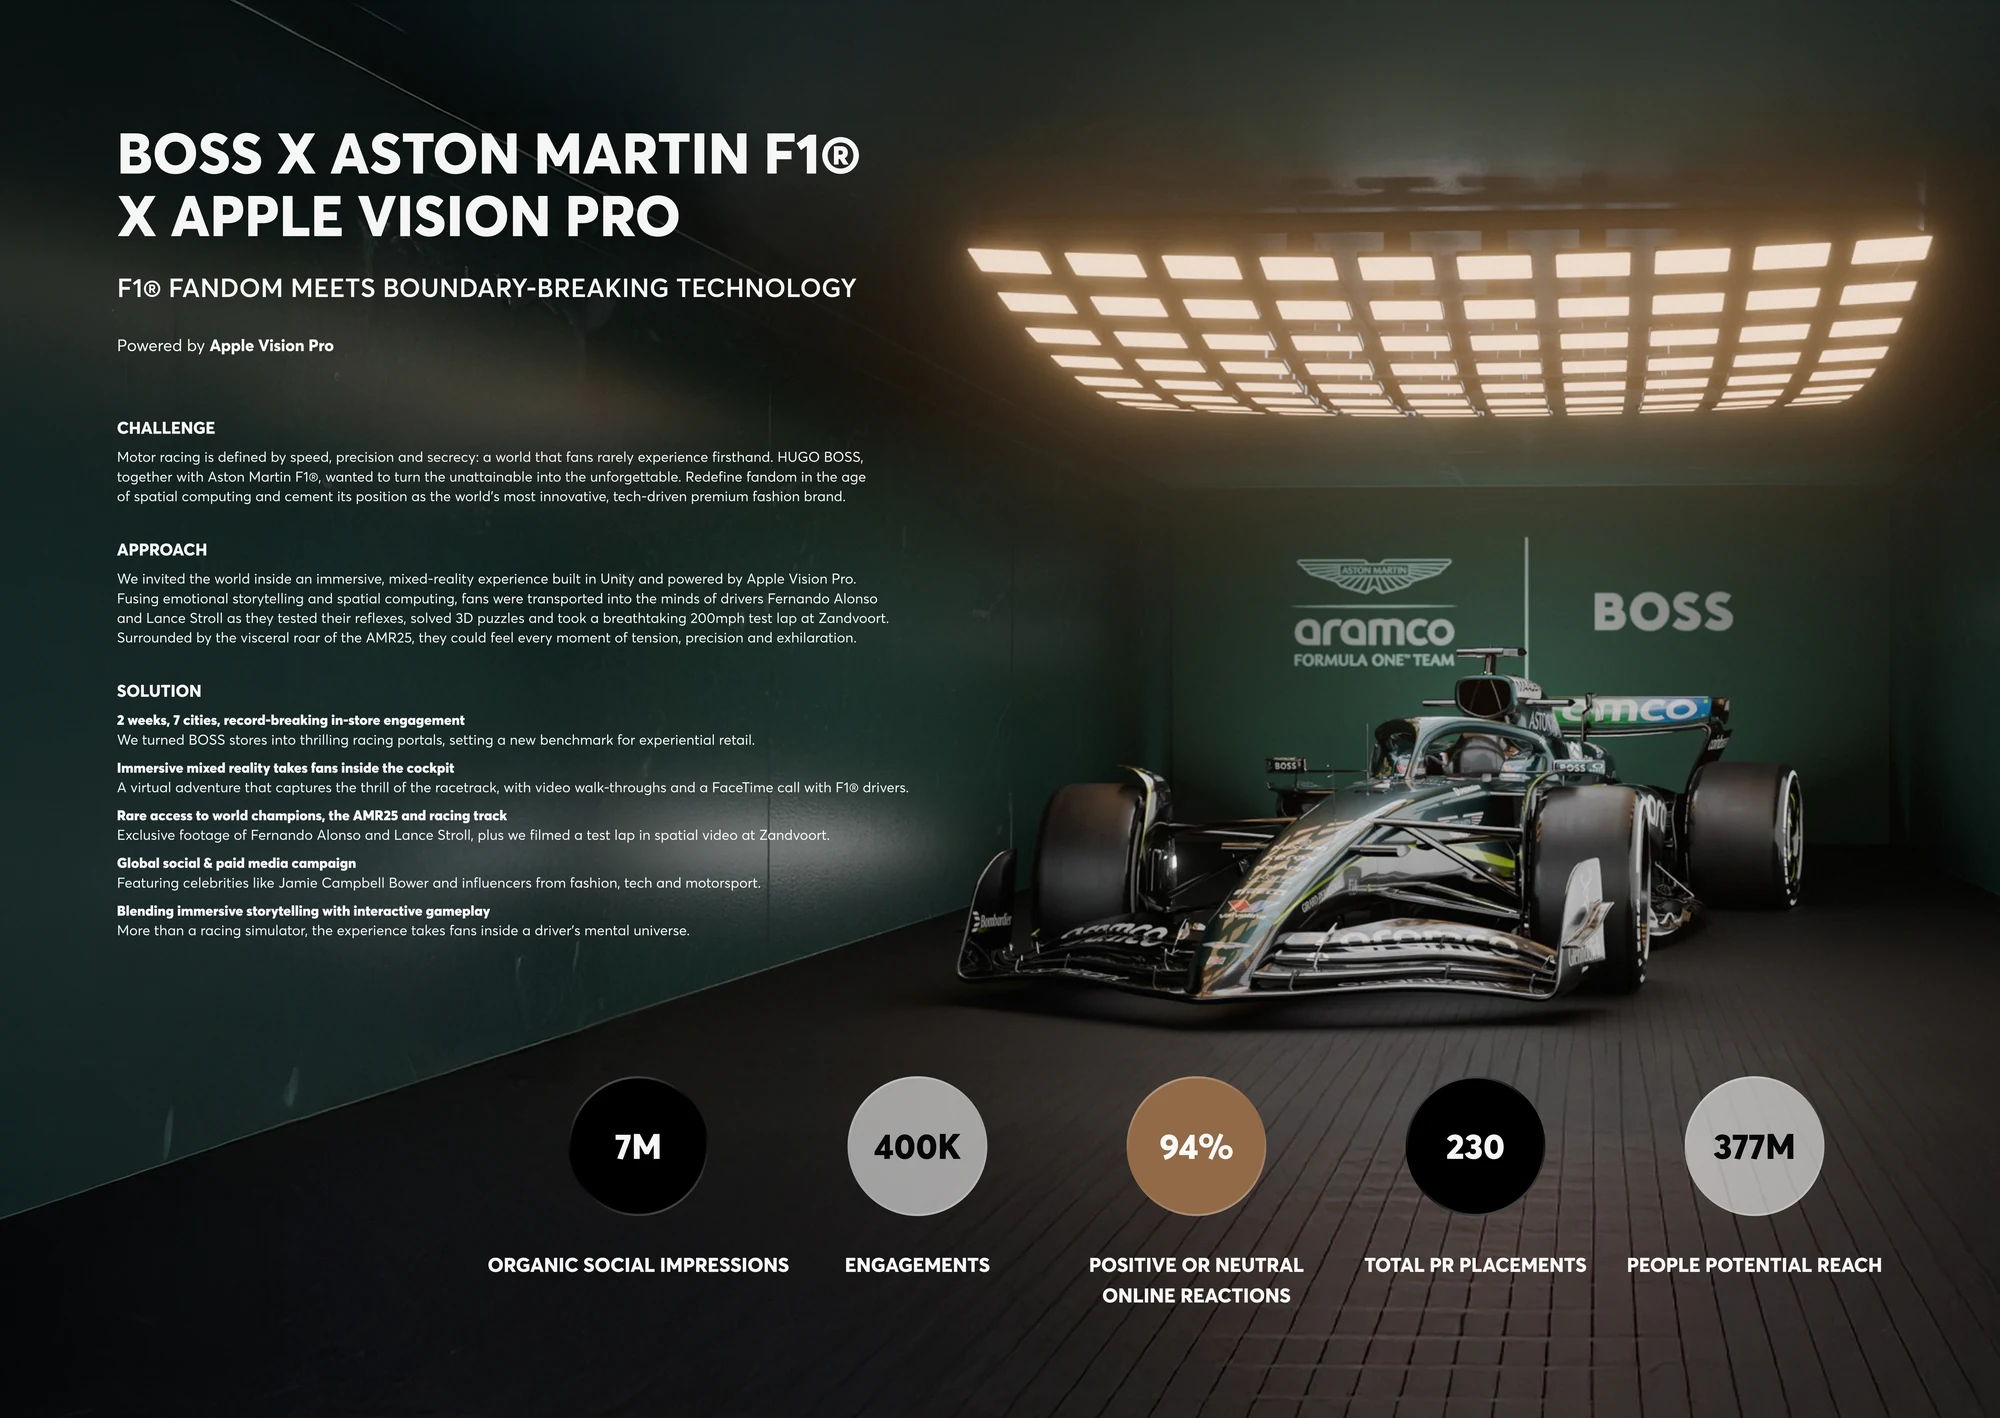
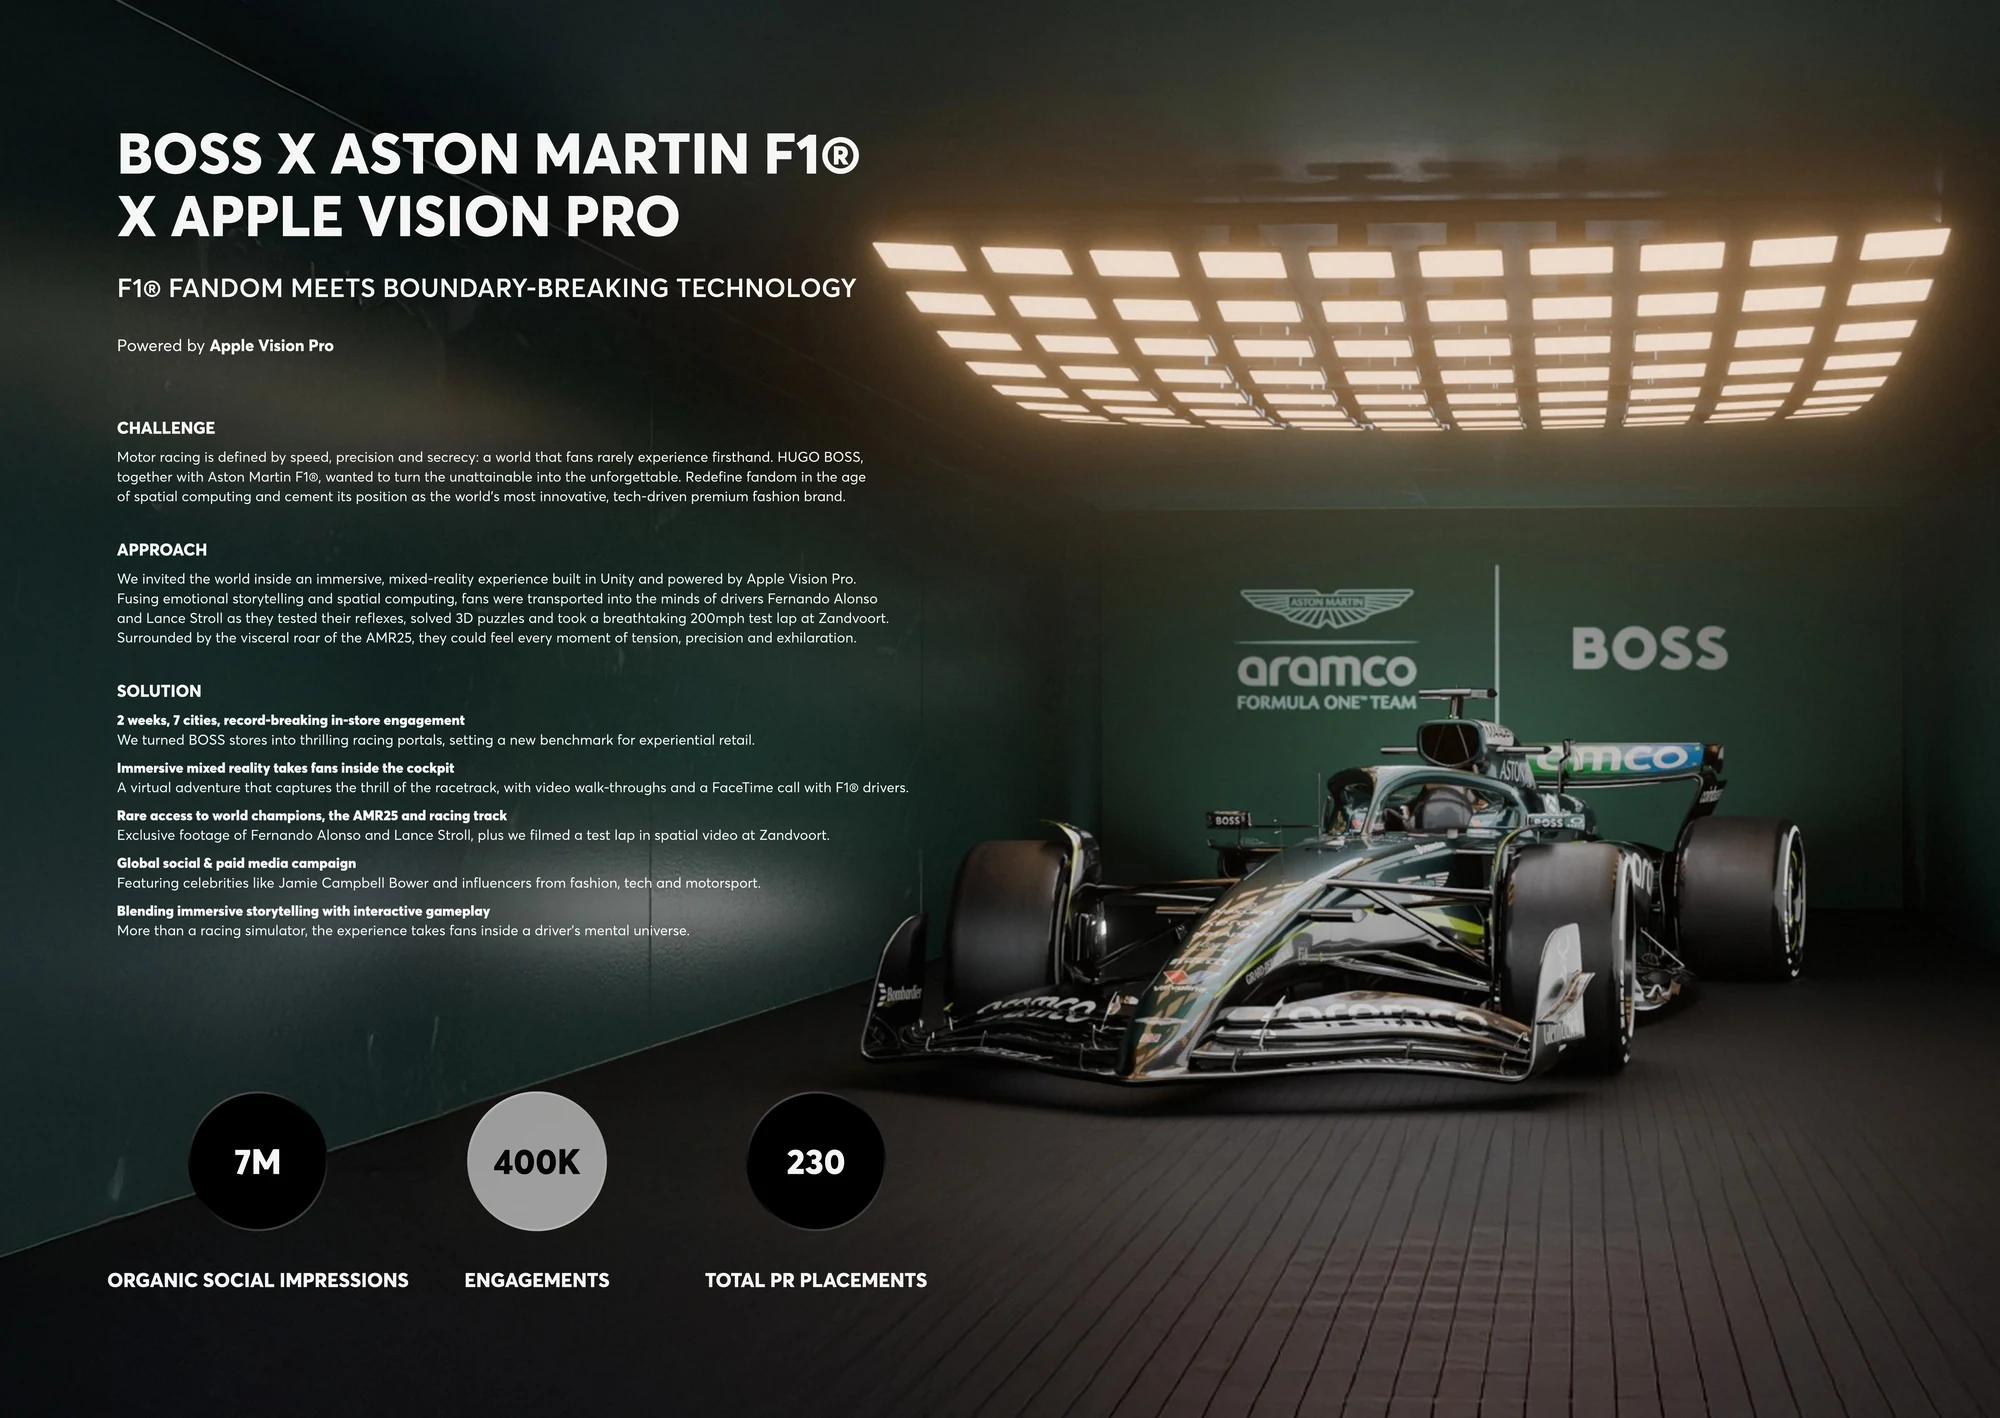
BOSS: final case board; results match it (7M, 400K, 230)
Claude-Session: https://claude.ai/code/session_01UsBDMCm7oThuBXKuMbAwPS

diff --git a/src/data/cases.ts b/src/data/cases.ts
@@ -91,7 +91,7 @@ export const cases: Case[] = [
       "Transforming fan engagement takes more than technology. It takes artistry, insight and precision. We assembled a multidisciplinary team of creatives, UX/UI designers, 3D artists, sound engineers, VFX specialists and developers with deep expertise in spatial computing, AR/VR and gaming. We started with research to explore the emotional connection fans have with the sport. Storytelling was paramount. From there, rapid prototyping and creative experimentation allowed us to explore how spatial computing could unlock deeper immersion. Spatial technology gave us the perfect canvas, experienced through Apple Vision Pro in an elevated, in-store-only installation. Coupled with Unity's game engine, we designed a cinematic journey into the mind of a motor racing driver.",
     execution:
       "We brought Step Inside the Mind of a Boss to life as an exclusive two-week global activation at BOSS halo stores in seven iconic cities: London, Paris, Düsseldorf, Barcelona, Las Vegas, Dubai and Singapore. Guided by store associates, visitors wore Apple Vision Pro headsets to be transported into the minds of Aston Martin Aramco drivers Fernando Alonso and Lance Stroll. From precision visual targeting exercises to 3D spatial puzzles inspired by strategic race decisions, every step demanded sharp focus and split-second reflexes. The experience culminated in a breathtaking 200mph test lap in the AMR25 at Zandvoort. Built natively for Apple Vision Pro and powered by Unity, weaving spatial realism, real-time rendering, physics simulation and immersive audio into every moment.",
-    results: "Record-breaking in-store engagement · 7M organic social impressions · 400K engagements · 230 PR placements · 377M people potential reach",
+    results: "Record-breaking in-store engagement · 7M organic social impressions · 400K engagements · 230 PR placements",
     role: "Creative Director",
     year: "2025",
     credits: [
